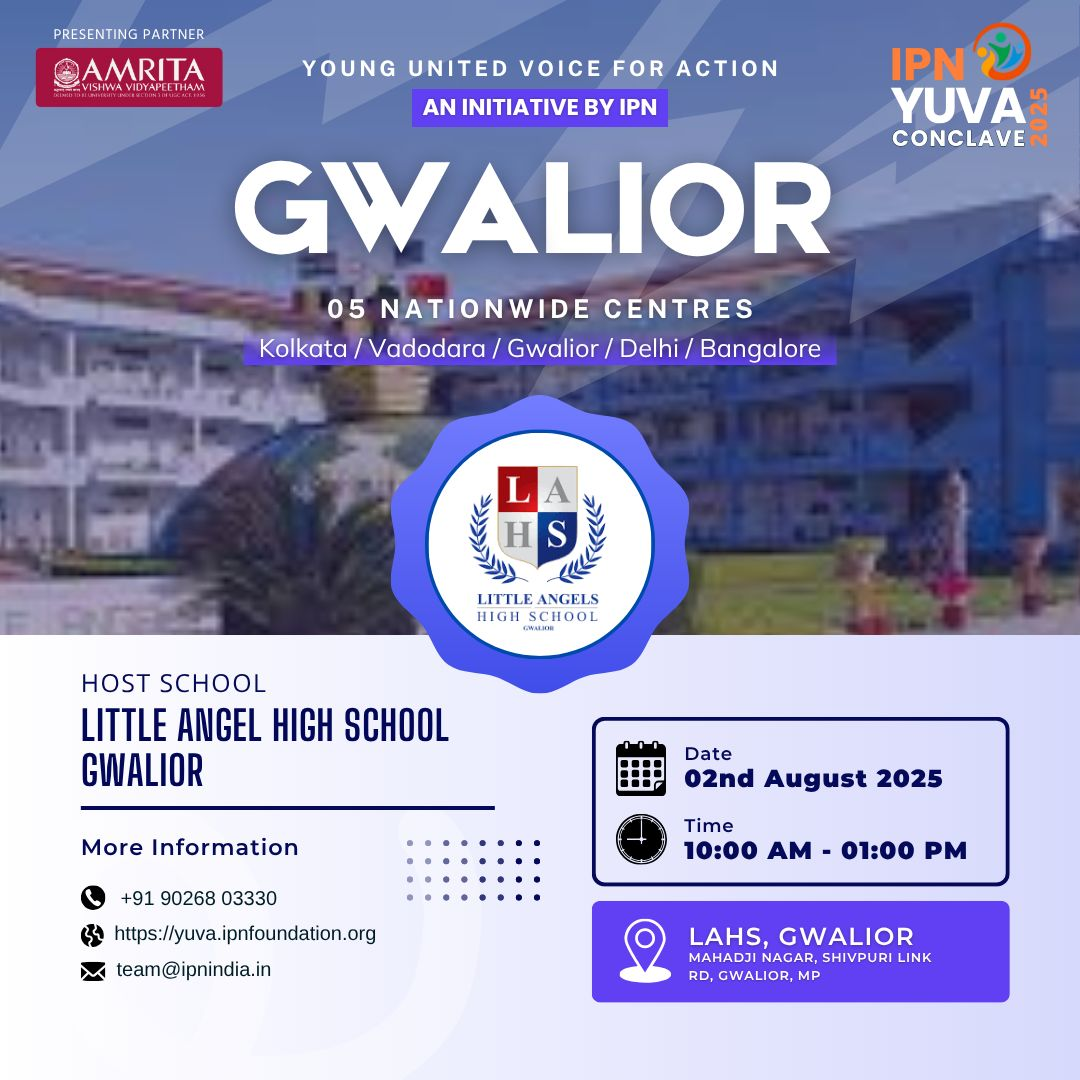
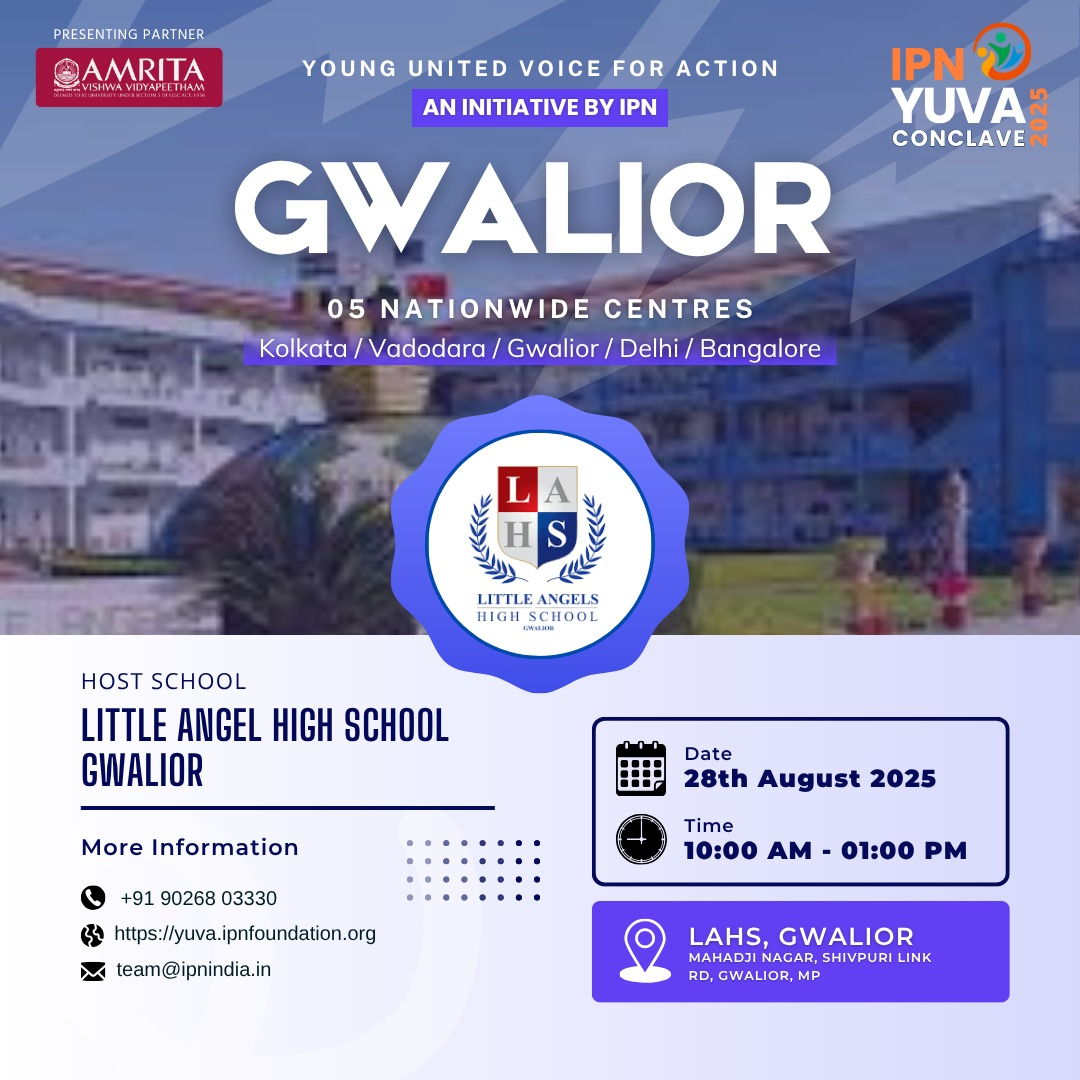
AA

Changed region(s): [[0.6417, 0.7028, 0.8861, 0.7333], [0.0611, 0.6111, 0.2444, 0.6417]]

diff --git a/hosts_school.html b/hosts_school.html
@@ -268,7 +268,7 @@
                         <span class="host-city">Gwalior</span>
                     </div>
                     <div class="host-school">LITTLE ANGEL HIGH SCHOOL, GWALIOR</div>
-                    <div class="host-date"><i class="fas fa-calendar-alt"></i> 2 August 2025</div>
+                    <div class="host-date"><i class="fas fa-calendar-alt"></i> 28 August 2025</div>
                 </div>
                 <div class="host-card kolkata">
                     <img src="host_school/kolkata.jpeg" alt="Kolkata Host School">
@@ -289,6 +289,16 @@
                     </div>
                     <div class="host-school">Amicus International School, Vadodara</div>
                     <div class="host-date"><i class="fas fa-calendar-alt"></i> Date: Yet to be shared</div>
+                </div>
+                <div class="host-card noida">
+                    <img src="host_school/noida.jpeg" alt="Vadodara Host School">
+                    <div class="host-badge">Scheduled</div>
+                    <div class="host-city-row">
+                        <span class="host-city-icon"><i class="fas fa-map-marker-alt"></i></span>
+                        <span class="host-city">Noida</span>
+                    </div>
+                    <div class="host-school">Aster Public School, Noida</div>
+                    <div class="host-date"><i class="fas fa-calendar-alt"></i> 04th October 2025</div>
                 </div>
             </div>
         </div>
